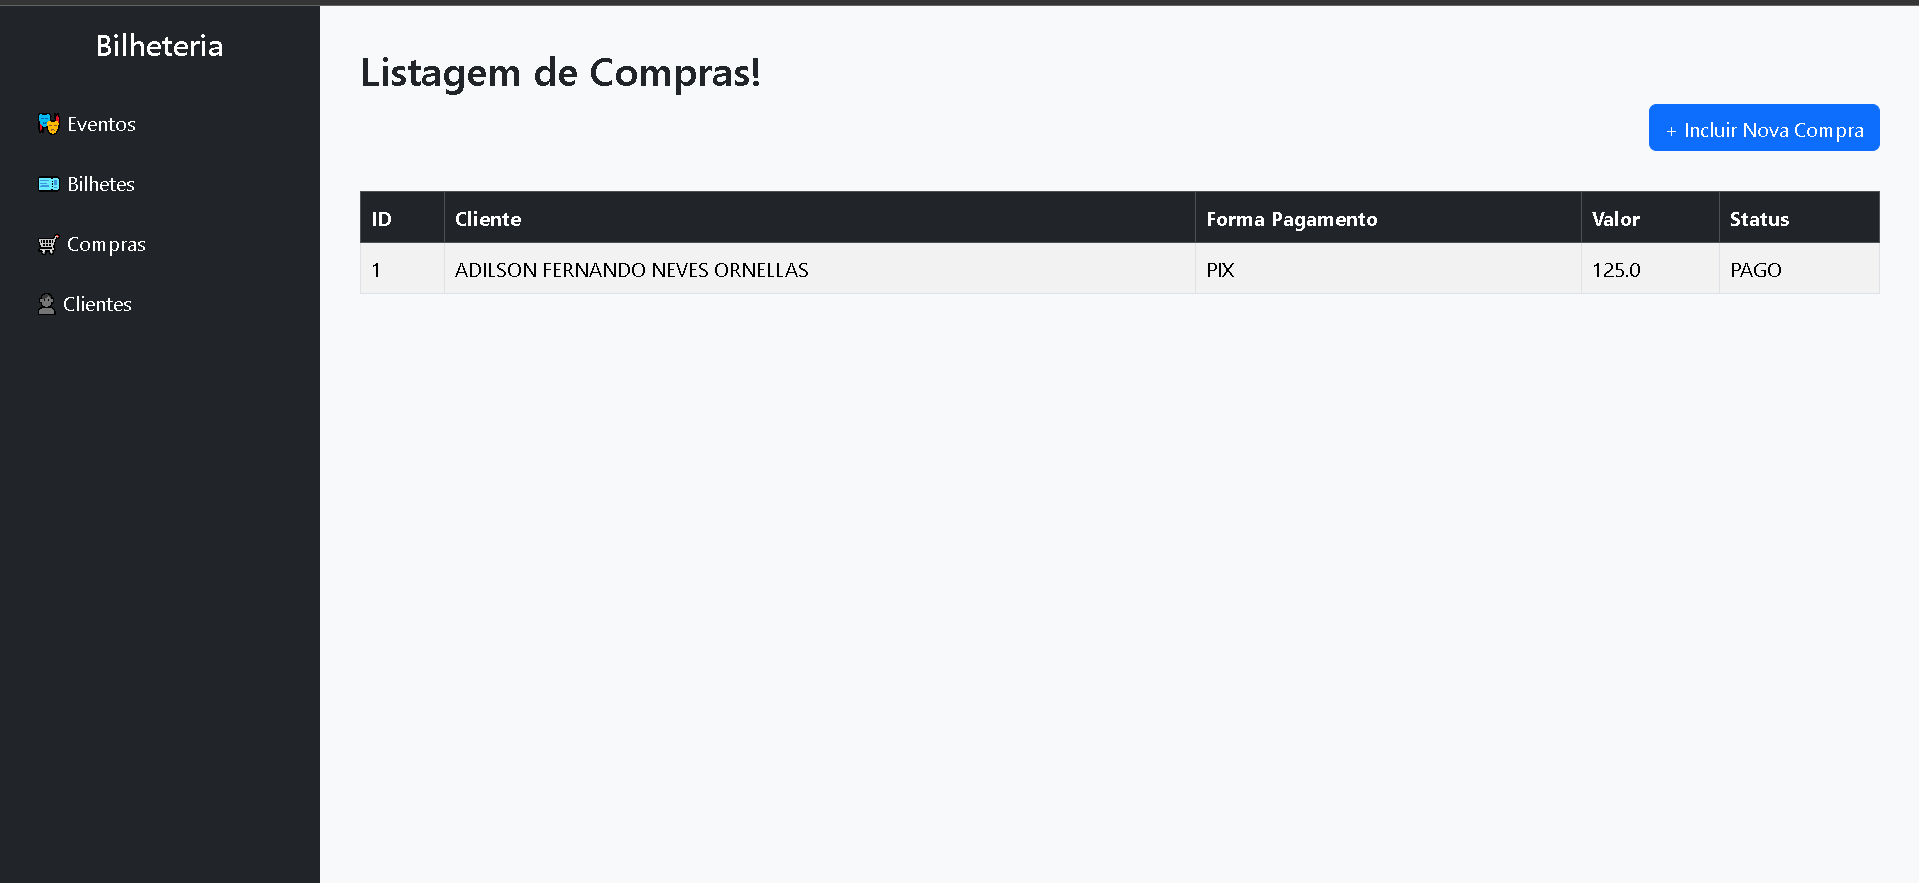
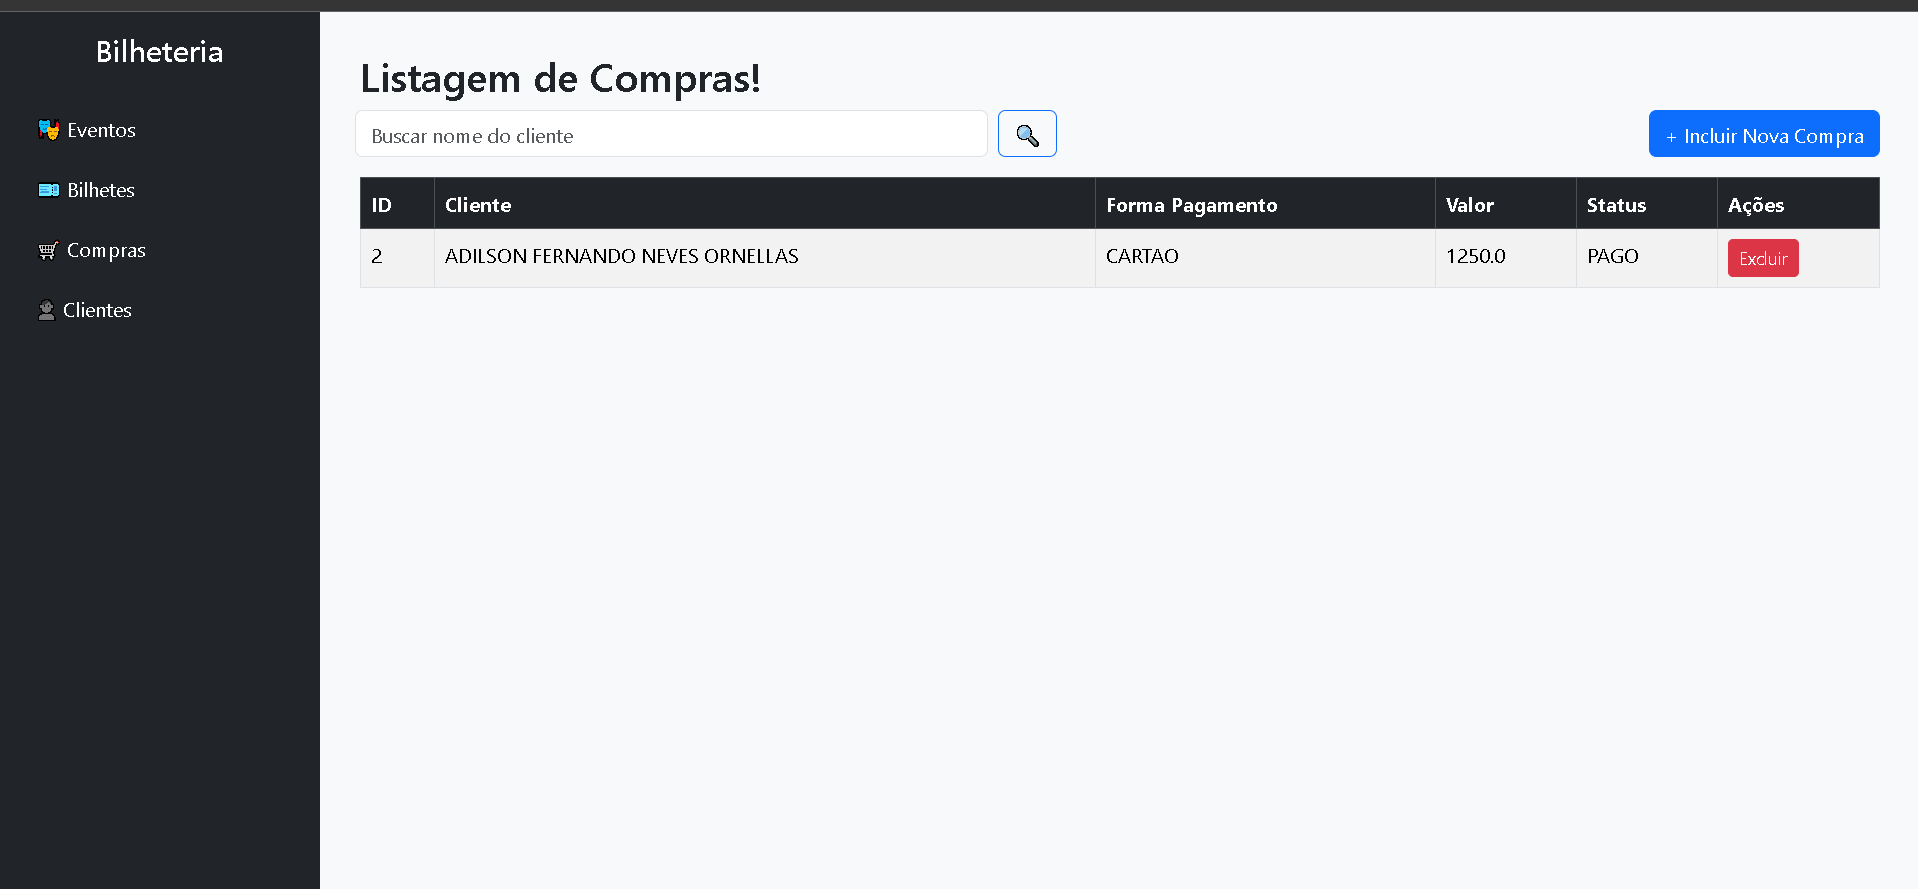
Feat: busca por nome listagem de compras + opção de deletar compras que deleta bilhetes em seguida

diff --git a/src/main/java/dao/CompraDao.java b/src/main/java/dao/CompraDao.java
@@ -42,11 +42,20 @@ public class CompraDao {
     }
 
     public void excluir(int id) throws SQLException {
-        String sql = "DELETE FROM compras WHERE id = ?";
-        PreparedStatement stmt = con.prepareStatement(sql);
-        stmt.setInt(1, id);
-        stmt.execute();
-        stmt.close();
+        // Primeiro exclui os bilhetes associados
+        String sqlBilhetes = "DELETE FROM bilhetes WHERE compra_id = ?";
+        PreparedStatement stmtBilhetes = con.prepareStatement(sqlBilhetes);
+        stmtBilhetes.setInt(1, id);
+        stmtBilhetes.executeUpdate();
+        stmtBilhetes.close();
+
+        // Agora exclui a compra
+        String sqlCompra = "DELETE FROM compras WHERE id = ?";
+        PreparedStatement stmtCompra = con.prepareStatement(sqlCompra);
+        stmtCompra.setInt(1, id);
+        stmtCompra.executeUpdate();
+        stmtCompra.close();
+
         con.close();
     }
 
@@ -68,7 +77,7 @@ public class CompraDao {
             compra.setClienteId(clienteId);
             compra.setQtdBilhete(rs.getInt("qtd_bilhete"));
 
-            Cliente cliente = clienteDao.buscarPorId(clienteId); 
+            Cliente cliente = clienteDao.buscarPorId(clienteId);
             compra.setCliente(cliente);
 
             compras.add(compra);
@@ -79,21 +88,34 @@ public class CompraDao {
         return compras;
     }
 
-    public List<Compra> listarPorStatus(String status) throws SQLException {
-        String sql = "SELECT id, forma_pagamento, status, valor, cliente_id, qtd_bilhete FROM compras WHERE status = ?";
-        PreparedStatement stmt = con.prepareStatement(sql);
-        stmt.setString(1, status);
-        ResultSet rs = stmt.executeQuery();
+    public List<Compra> listarPorNomeCliente(String nome) throws SQLException {
+        String sql = """
+                    SELECT c.id, c.forma_pagamento, c.status, c.valor, c.cliente_id, c.qtd_bilhete
+                    FROM compras c
+                    INNER JOIN clientes cl ON c.cliente_id = cl.id
+                    WHERE LOWER(cl.nome) LIKE ?
+                """;
 
+        PreparedStatement stmt = con.prepareStatement(sql);
+        stmt.setString(1, "%" + nome.toLowerCase() + "%");
+
+        ResultSet rs = stmt.executeQuery();
+        ClienteDao clienteDao = new ClienteDao();
         List<Compra> compras = new ArrayList<>();
+
         while (rs.next()) {
             Compra compra = new Compra();
             compra.setId(rs.getInt("id"));
             compra.setFormaPagamento(rs.getString("forma_pagamento"));
             compra.setStatus(rs.getString("status"));
             compra.setValor(rs.getFloat("valor"));
-            compra.setClienteId(rs.getInt("cliente_id"));
+            int clienteId = rs.getInt("cliente_id");
+            compra.setClienteId(clienteId);
             compra.setQtdBilhete(rs.getInt("qtd_bilhete"));
+
+            Cliente cliente = clienteDao.buscarPorId(clienteId);
+            compra.setCliente(cliente);
+
             compras.add(compra);
         }
 
@@ -102,50 +124,4 @@ public class CompraDao {
         return compras;
     }
 
-    public List<Compra> listarPorCliente(int clienteId) throws SQLException {
-        String sql = "SELECT id, forma_pagamento, status, valor, cliente_id, qtd_bilhete FROM compras WHERE cliente_id = ?";
-        PreparedStatement stmt = con.prepareStatement(sql);
-        stmt.setInt(1, clienteId);
-        ResultSet rs = stmt.executeQuery();
-
-        List<Compra> compras = new ArrayList<>();
-        while (rs.next()) {
-            Compra compra = new Compra();
-            compra.setId(rs.getInt("id"));
-            compra.setFormaPagamento(rs.getString("forma_pagamento"));
-            compra.setStatus(rs.getString("status"));
-            compra.setValor(rs.getFloat("valor"));
-            compra.setClienteId(rs.getInt("cliente_id"));
-            compra.setQtdBilhete(rs.getInt("qtd_bilhete"));
-            compras.add(compra);
-        }
-
-        stmt.close();
-        con.close();
-        return compras;
-    }
-
-    public List<Compra> listarPorStatusECliente(String status, int clienteId) throws SQLException {
-        String sql = "SELECT id, forma_pagamento, status, valor, cliente_id, qtd_bilhete FROM compras WHERE status = ? AND cliente_id = ?";
-        PreparedStatement stmt = con.prepareStatement(sql);
-        stmt.setString(1, status);
-        stmt.setInt(2, clienteId);
-        ResultSet rs = stmt.executeQuery();
-
-        List<Compra> compras = new ArrayList<>();
-        while (rs.next()) {
-            Compra compra = new Compra();
-            compra.setId(rs.getInt("id"));
-            compra.setFormaPagamento(rs.getString("forma_pagamento"));
-            compra.setStatus(rs.getString("status"));
-            compra.setValor(rs.getFloat("valor"));
-            compra.setClienteId(rs.getInt("cliente_id"));
-            compra.setQtdBilhete(rs.getInt("qtd_bilhete"));
-            compras.add(compra);
-        }
-
-        stmt.close();
-        con.close();
-        return compras;
-    }
 }

diff --git a/src/main/java/controller/CompraController.java b/src/main/java/controller/CompraController.java
@@ -19,7 +19,7 @@ import model.Evento;
 import model.Compra;
 import model.Cliente;
 
-@WebServlet(urlPatterns = { "/compras", "/compras/cadastrar" })
+@WebServlet(urlPatterns = { "/compras", "/compras/cadastrar", "/compras/excluir" })
 public class CompraController extends HttpServlet {
 
     @Override
@@ -70,7 +70,7 @@ public class CompraController extends HttpServlet {
             EventoDao eventoDao = new EventoDao();
             try {
                 List<Cliente> clientes = clienteDao.listarTodos();
-                List<Evento> eventos = eventoDao.listarTodos(); // crie esse método
+                List<Evento> eventos = eventoDao.listarTodos();
 
                 request.setAttribute("clientes", clientes);
                 request.setAttribute("eventos", eventos);
@@ -79,22 +79,31 @@ public class CompraController extends HttpServlet {
             }
             RequestDispatcher rd = request.getRequestDispatcher("/compras/cadastrar.jsp");
             rd.forward(request, response);
+
+        } else if (path.equals("/compras/excluir")) {
+            String idStr = request.getParameter("id");
+
+            if (idStr != null && !idStr.isEmpty()) {
+                int id = Integer.parseInt(idStr);
+                try {
+                    CompraDao compraDao = new CompraDao();
+                    compraDao.excluir(id);
+                } catch (SQLException e) {
+                    e.printStackTrace();
+                }
+            }
+            response.sendRedirect("../compras");
+
         } else {
-            // Seu código atual de listar compras (copiar daqui para baixo)
+
             CompraDao compraDao = new CompraDao();
             List<Compra> compras = null;
 
-            String filtroStatus = request.getParameter("status");
-            String filtroClienteId = request.getParameter("clienteId");
+            String nomeCliente = request.getParameter("nomeCliente");
 
             try {
-                if (filtroStatus != null && !filtroStatus.isEmpty() && filtroClienteId != null
-                        && !filtroClienteId.isEmpty()) {
-                    compras = compraDao.listarPorStatusECliente(filtroStatus, Integer.parseInt(filtroClienteId));
-                } else if (filtroStatus != null && !filtroStatus.isEmpty()) {
-                    compras = compraDao.listarPorStatus(filtroStatus);
-                } else if (filtroClienteId != null && !filtroClienteId.isEmpty()) {
-                    compras = compraDao.listarPorCliente(Integer.parseInt(filtroClienteId));
+                if (nomeCliente != null && !nomeCliente.isEmpty()) {
+                    compras = compraDao.listarPorNomeCliente(nomeCliente);
                 } else {
                     compras = compraDao.listarTodos();
                 }
